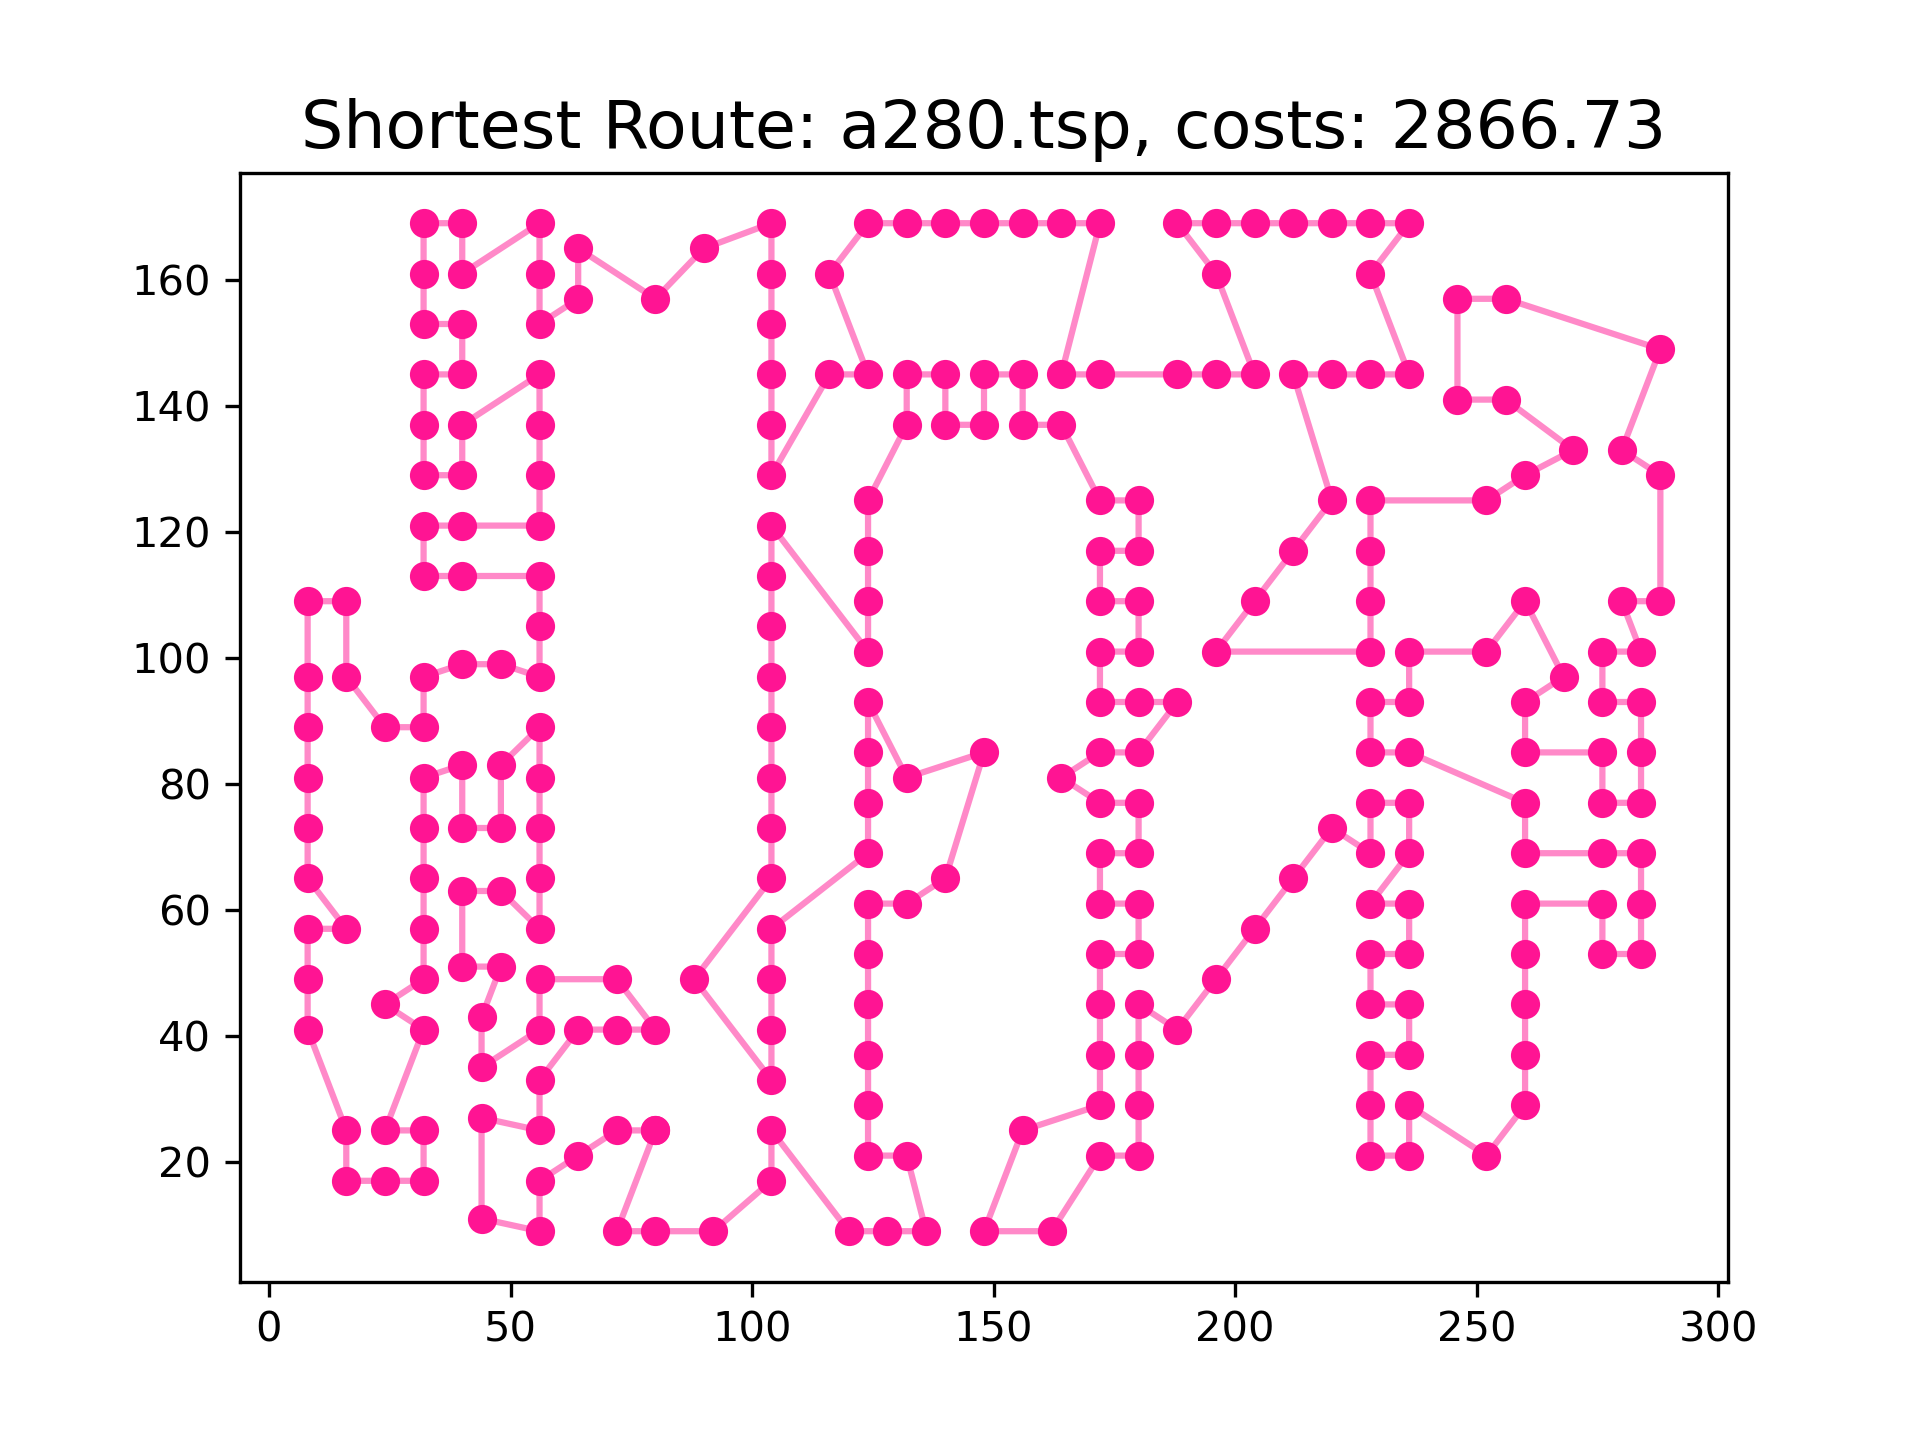
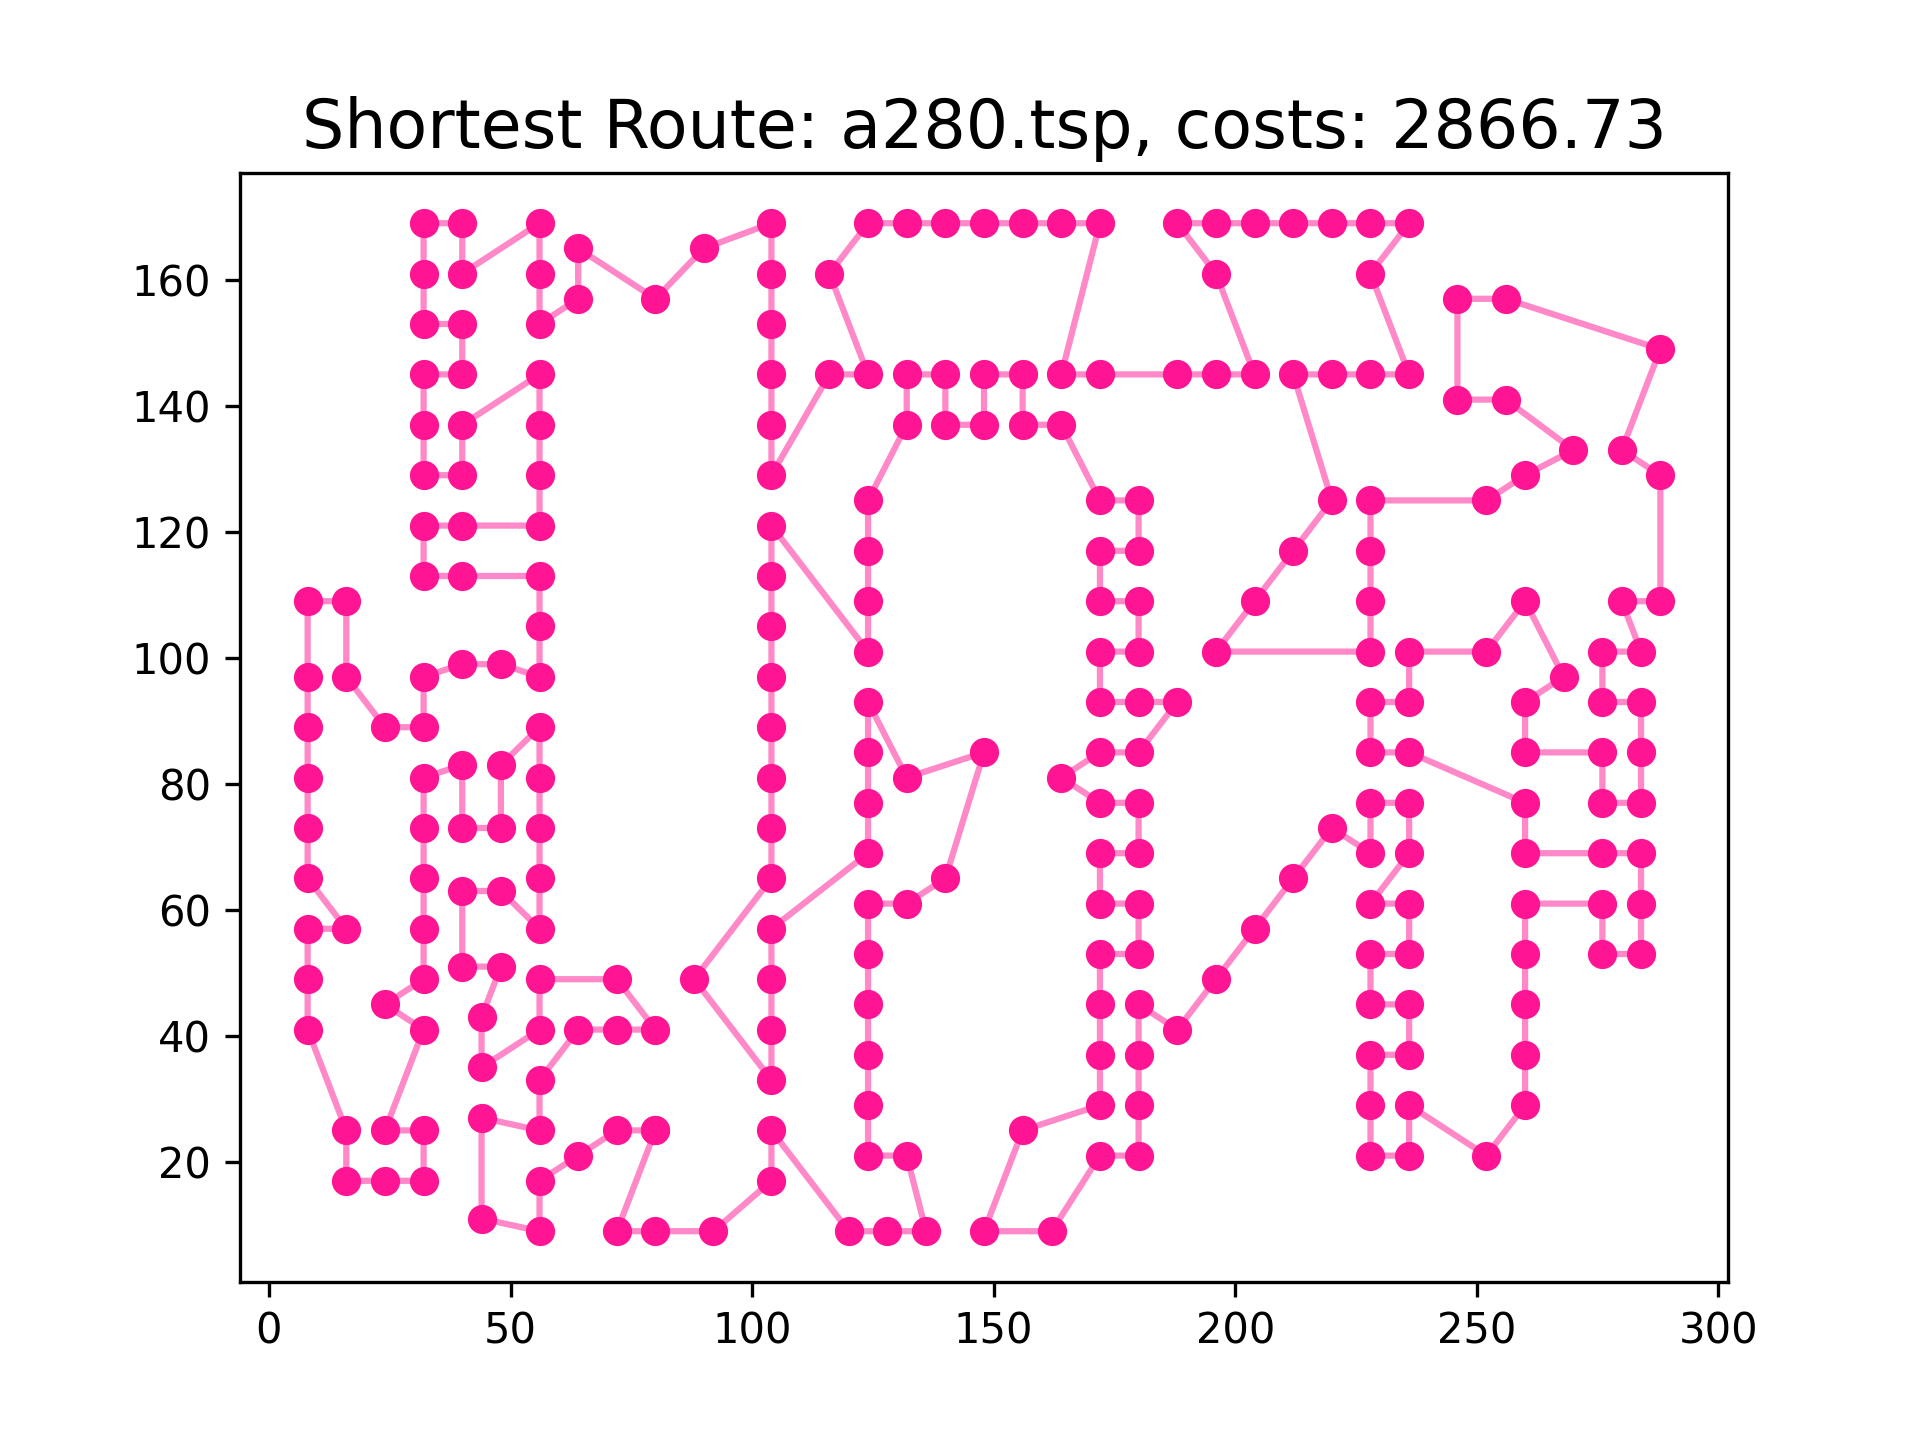
Last changes

diff --git a/TSP_a280.py b/TSP_a280.py
@@ -1,4 +1,5 @@
 """ TSP SIMULATED ANNEALING """
+""" Plotting a graph with shortest route """
 
 # Imports
 import matplotlib.pyplot as plt
@@ -26,8 +27,11 @@ y = [y[1] for y in nodes.values()]
 # data = pd.read_csv(f"data/{filename}-batch-1.txt", sep="\t")
 # z = list(map(float,list(data['429-10'])))
 
-# optimum so far (costs = 2866.7391789280546)
-r= [1.0, 280.0, 2, 242, 243, 241, 244, 245, 240, 239, 238, 231, 246, 251, 250, 247, 248, 249, 256, 255, 254, 253, 252, 230, 229, 232, 237, 236, 235, 234, 233, 228, 227, 226, 225, 224, 223, 219, 222, 221, 220, 217, 218, 215, 216, 213, 214, 211, 212, 210, 209, 208, 207, 206, 205, 204, 203, 202, 200, 201, 196, 195, 194, 192, 191, 193, 197, 198, 199, 145, 144, 143, 146, 147, 142, 141, 148, 149, 139, 140, 265, 266, 138, 137, 267, 268, 136, 135, 269, 270, 134, 133, 132, 19, 20, 131, 130, 21, 128, 129, 154, 155, 153, 156, 122, 121, 120, 119, 157, 158, 159, 160, 174, 163, 162, 161, 175, 176, 177, 151, 152, 178, 150, 179, 180, 181, 182, 183, 184, 185, 187, 186, 190, 189, 188, 164, 165, 166, 167, 168, 171, 172, 170, 169, 101, 100, 99, 92, 102, 103, 105, 106, 173, 107, 108, 104, 91, 90, 109, 89, 88, 112, 110, 111, 114, 115, 117, 116, 113, 87, 86, 85, 84, 83, 82, 81, 79, 80, 94, 93, 98, 97, 96, 95, 78, 77, 75, 76, 74, 73, 72, 71, 70, 69, 68, 67, 66, 65, 64, 63, 62, 118, 61, 60, 59, 58, 57, 44, 43, 42, 41, 40, 46, 45, 56, 55, 54, 47, 48, 53, 52, 51, 50, 49, 37, 38, 39, 35, 36, 34, 33, 32, 31, 30, 125, 124, 123, 126, 127, 29, 28, 27, 26, 22, 25, 23, 24, 18, 17, 16, 271, 272, 15, 14, 13, 12, 11, 10, 8, 7, 9, 276, 275, 274, 273, 261, 262, 263, 264, 257, 258, 259, 260, 278, 279, 3, 4, 277, 6, 5.0, 1.0]
+# optimum so far (costs = 2600.4), read from file
+opt = open(f"data/a280.tsp-batch-mkc10k2.txt", "r")
+opt2 = opt.readlines()[1:]
+r = [float(x.split('\n')[0]) for x in opt2]
+
 temp = []
 # get coordinates of each point
 for item in r:
@@ -41,11 +45,8 @@ temp = np.array(temp)
 fig, ax = plt.subplots()
 ax.scatter(x, y, color="deeppink")
 
-# for i, txt in enumerate(nodes.keys()):
-#     ax.annotate(txt, (x[i], y[i]))
-
-ax.plot(*temp.T, color="deeppink", alpha=0.5)
-ax.set_title(f"Shortest Route: {filename}, costs: 2866.73", fontsize=16)
+ax.plot(*temp.T, color="deeppink", alpha=0.3)
+ax.set_title(f"Shortest Route: {filename}, costs: 2600.4", fontsize=16)
 #
-plt.savefig("plots/a280-test2.png", dpi=300)
+plt.savefig("plots/a280-optimum.png", dpi=300)
 plt.show()

diff --git a/statistics.py b/statistics.py
@@ -20,19 +20,30 @@ def conf_int(mean, var, n, p=0.95):
     plus_lambda = mean + alambda
     return f"Confidence interval: [{min_lambda:.4f} < X < {plus_lambda:.4f}] with p = {p}"
 
-batchlist = ["1100", "1400", "11000", "12000", "-1749", "-1999"]
+# batchlist = ["1100", "1400", "11000", "12000", "-1749", "-1999"]
+batchlist = ["mkc10005000"]
 mcklist = ["mkc100-2", "11000", "mkc1000", "mkc10000"]
 
 # 1999 is 500 temp
 # 1749 is 250 temp
 
-for batch in batchlist:
-    file = pd.read_csv(f'data/a280.tsp-batch-{batch}.txt', sep='\t')
-    m = [float(x.split("-")[0]) for x in file.columns]
-    mean = np.mean(m)
-    var = np.var(m)
-    n = len(m)
-    print(f'Batch: a280.tsp-batch-{batch}')
-    print(f'Average: {mean}, Stdev: {np.std(m)}')
-    print(conf_int(mean, var, n))
-    print()
+# for batch in batchlist:
+    # file = pd.read_csv(f'data/a280.tsp-batch-{batch}.txt', sep='\t')
+    # m = [float(x.split("-")[0]) for x in file.columns]
+    # mean = np.mean(m)
+    # var = np.var(m)
+    # n = len(m)
+    # print(f'Batch: a280.tsp-batch-{batch}')
+    # print(f'Average: {mean}, Stdev: {np.std(m)}')
+    # print(conf_int(mean, var, n))
+    # print()
+
+file = pd.read_csv(f'data/a280_lun_MKC.tsp-batch-3000.txt', sep='\t')
+m = [float(x.split("-")[0]) for x in file.columns]
+mean = np.mean(m)
+var = np.var(m)
+n = len(m)
+print(f'Batch: a280.tsp-batch-3000')
+print(f'Average: {mean}, Stdev: {np.std(m)}')
+print(conf_int(mean, var, n))
+print()

diff --git a/read.py b/read.py
@@ -7,12 +7,12 @@ import numpy as np
 
 # file to experiment with
 # f = open("TSP-configurations/a280.tsp.txt", "r")
-# f2 = open("TSP-configurations/a280.opt.tour.txt", "r")
+f2 = open("TSP-configurations/a280.opt.tour.txt", "r")
 
 # f = open("TSP-configurations/pcb442.tsp.txt", "r")
 
 # file to perform tests on
-# f = open("TSP-configurations/a280.tsp.txt", "r")
+f = open("TSP-configurations/a280.tsp.txt", "r")
 
 network = f.readlines()[6:-1]
 

diff --git a/plot_cooling.py b/plot_cooling.py
@@ -1,5 +1,5 @@
 import matplotlib.pyplot as plt
-from TravelingSalesMan.cooling_methods import *
+from cooling_methods import *
 import numpy as np
 
 i = np.arange(0, 2000, 1)
